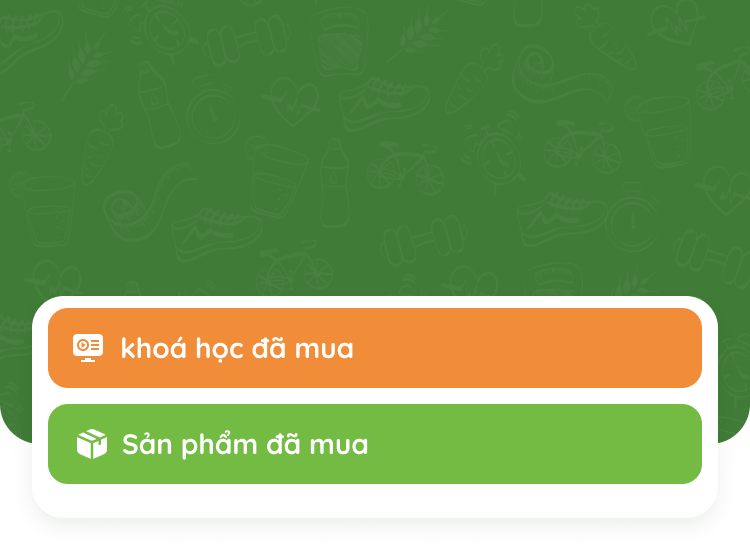
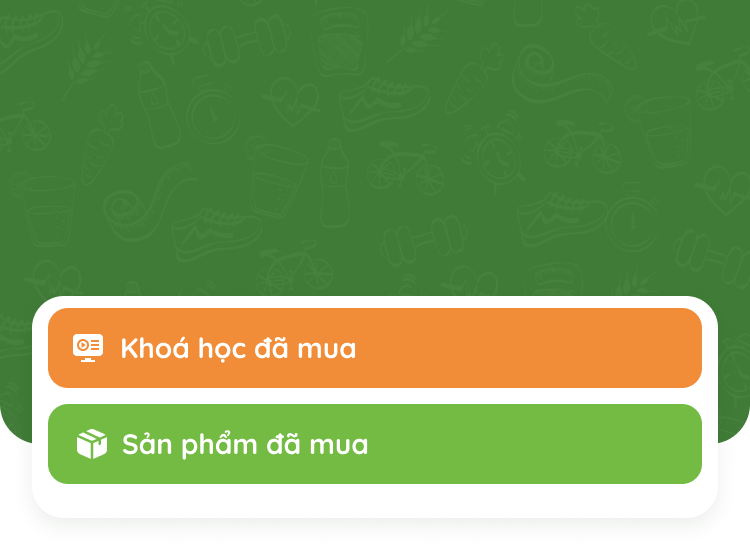
feat: add external home screen, product listing page, and required visual assets

Changed region(s): [[0.1533, 0.6182, 0.4907, 0.68]]

diff --git a/lib/screens/listSanPham/list_sp.dart b/lib/screens/listSanPham/list_sp.dart
@@ -1,4 +1,4 @@
-import 'package:heathy_teacher/utils/apple_sanitizer.dart';
+import 'package:heathy_teacher/utils/apple_sanitizer.dart';
 import 'dart:math';
 import 'package:flutter/material.dart';
 import 'package:flutter_screenutil/flutter_screenutil.dart';
@@ -125,18 +125,13 @@ class _ListSpScreenState extends State<ListSpScreen> {
                             ),
                           ],
                         ),
-                        GridView.builder(
+                        ListView.separated(
                           shrinkWrap: true,
-                          physics: NeverScrollableScrollPhysics(),
+                          physics: const NeverScrollableScrollPhysics(),
                           padding: const EdgeInsets.all(12),
                           itemCount: courses.length,
-                          gridDelegate:
-                              const SliverGridDelegateWithFixedCrossAxisCount(
-                                crossAxisCount: 2,
-                                crossAxisSpacing: 12,
-                                mainAxisSpacing: 12,
-                                childAspectRatio: 0.6,
-                              ),
+                          separatorBuilder: (context, index) =>
+                              const SizedBox(height: 12),
                           itemBuilder: (context, index) {
                             final item = courses[index];
 
@@ -172,48 +167,55 @@ class _ListSpScreenState extends State<ListSpScreen> {
                                         top: Radius.circular(16),
                                         bottom: Radius.circular(16),
                                       ),
-                                      child: CachedNetworkImage(memCacheWidth: 800, 
-                                        imageUrl: item.img ?? '',
-                                        height: 160.h,
-                                        width: double.infinity,
-                                        fit: BoxFit.cover,
-                                        errorWidget: (context, url, error) {
-                                          return Container(
-                                            width: 50.dg,
-                                            height: 50.dg,
-                                            color: Colors.grey[200],
-                                            child: Icon(
-                                              Icons.error_outline,
-                                              size: 30.dg,
-                                              color: Colors.grey,
-                                            ),
-                                          );
-                                        },
-                                        // (Tuỳ chọn) Hiển thị vòng xoay loading trong lúc đang tải ảnh
-                                        placeholder: (context, url) {
-                                          return Container(
-                                            width: 80.w,
-                                            height: 80.h,
-                                            color: Colors.grey[100],
-                                            child: const Center(
-                                              child:
-                                                  CircularProgressIndicator(),
-                                            ),
-                                          );
-                                        },
+                                      child: AspectRatio(
+                                        aspectRatio: 1,
+                                        child: CachedNetworkImage(
+                                          memCacheWidth: 800,
+                                          imageUrl: item.img ?? '',
+                                          width: double.infinity,
+                                          fit: BoxFit.cover,
+                                          errorWidget: (context, url, error) {
+                                            return Container(
+                                              width: 50.dg,
+                                              height: 50.dg,
+                                              color: Colors.grey[200],
+                                              child: Icon(
+                                                Icons.error_outline,
+                                                size: 30.dg,
+                                                color: Colors.grey,
+                                              ),
+                                            );
+                                          },
+                                          // (Tuỳ chọn) Hiển thị vòng xoay loading trong lúc đang tải ảnh
+                                          placeholder: (context, url) {
+                                            return Container(
+                                              width: 80.w,
+                                              height: 80.h,
+                                              color: Colors.grey[100],
+                                              child: const Center(
+                                                child:
+                                                    CircularProgressIndicator(),
+                                              ),
+                                            );
+                                          },
+                                        ),
                                       ),
                                     ),
 
-                                    Text(
-                                      item.categoryName ?? '',
-                                      maxLines: 2,
-                                      overflow: TextOverflow.ellipsis,
-                                      style: defaultText16B.copyWith(
-                                        color: mainDarkGreen,
+                                    Padding(
+                                      padding: const EdgeInsets.symmetric(
+                                        vertical: 8.0,
+                                        horizontal: 4.0,
+                                      ),
+                                      child: Text(
+                                        item.categoryName ?? '',
+                                        style: defaultText16B.copyWith(
+                                          color: mainDarkGreen,
+                                        ),
                                       ),
                                     ),
 
-                                    const Spacer(),
+                                    const SizedBox(height: 8),
 
                                     /// BUTTON
                                     Padding(
@@ -323,7 +325,8 @@ class _ListSpScreenState extends State<ListSpScreen> {
                               /// IMAGE (giữ kích thước mong muốn)
                               SizedBox(
                                 height: 140.h, // 👈 bạn control size ảnh ở đây
-                                child: CachedNetworkImage(memCacheWidth: 800, 
+                                child: CachedNetworkImage(
+                                  memCacheWidth: 800,
                                   imageUrl:
                                       'https://cogiaohealthy.vn/wp-content/uploads/2025/07/cogiao.png',
                                   fit: BoxFit.contain,

diff --git a/lib/screens/splash/external_page.dart b/lib/screens/splash/external_page.dart
@@ -1,4 +1,4 @@
-import 'package:heathy_teacher/repo/course_repo.dart';
+import 'package:heathy_teacher/repo/course_repo.dart';
 import 'package:heathy_teacher/screens/bottomNavBar/bottom_bar_screen.dart';
 import 'package:heathy_teacher/screens/coursePage/course_screen.dart';
 import 'package:heathy_teacher/utils/widget/custom_home_widget.dart';
@@ -323,7 +323,8 @@ class _CoGiaoHealthyScreenState extends State<CoGiaoHealthyScreen> {
                             /// IMAGE (giữ kích thước mong muốn)
                             SizedBox(
                               height: 150.h, // 👈 bạn control size ảnh ở đây
-                              child: CachedNetworkImage(memCacheWidth: 800, 
+                              child: CachedNetworkImage(
+                                memCacheWidth: 800,
                                 imageUrl:
                                     'https://cogiaohealthy.vn/wp-content/uploads/2025/07/cogiao.png',
                                 fit: BoxFit.contain,
@@ -637,6 +638,7 @@ class ServiceGrid extends StatelessWidget {
           "Các dịch vụ nổi bật tại Cô giáo healthy",
           style: defaultText14M.copyWith(color: mainDarkGreen),
         ),
+        SizedBox(height: 8.h),
         //const StatisticsBannerWidget(),
         Padding(
           padding: EdgeInsets.symmetric(
@@ -721,15 +723,15 @@ class BottomCustom extends StatelessWidget {
         'type': 'url',
       },
       {
+        'title': 'Trang chủ',
+        'iconPath': 'assets/icons/icon_home.svg',
+        'type': 'external_home',
+      },
+      {
         'title': 'Gọi hotline',
         'iconPath': 'assets/images/call.png',
         'url': '0966912016',
         'type': 'phone',
-      },
-      {
-        'title': 'Hỗ trợ ngay',
-        'iconPath': 'assets/images/suport.png',
-        'type': 'login',
       },
     ];
 
@@ -763,6 +765,17 @@ class BottomCustom extends StatelessWidget {
                 await _launchUrl(context, item['url']);
               } else if (item['type'] == 'phone') {
                 await _launchUrl(context, item['url'], isPhone: true);
+              } else if (item['type'] == 'external_home') {
+                Navigator.pushAndRemoveUntil(
+                  context,
+                  MaterialPageRoute(
+                    builder: (context) => const CoGiaoHealthyScreen(
+                      type: 'home',
+                      place: 'Hà Nội',
+                    ),
+                  ),
+                  (Route<dynamic> route) => false,
+                );
               } else if (item['type'] == 'login') {
                 final prefs = await SharedPreferences.getInstance();
                 final token = prefs.getString('token');
@@ -1117,7 +1130,8 @@ class _OfflineClassCard extends StatelessWidget {
         child: Column(
           mainAxisAlignment: MainAxisAlignment.spaceBetween,
           children: [
-            CachedNetworkImage(memCacheWidth: 800, 
+            CachedNetworkImage(
+              memCacheWidth: 800,
               imageUrl: model.img ?? '',
               width: 184.w,
               fit: BoxFit.fitWidth,
@@ -1235,7 +1249,8 @@ class _OnlineClassCard extends StatelessWidget {
                   borderRadius: BorderRadius.circular(12.r),
                   child: AspectRatio(
                     aspectRatio: 483 / 397.76,
-                    child: CachedNetworkImage(memCacheWidth: 800, 
+                    child: CachedNetworkImage(
+                      memCacheWidth: 800,
                       imageUrl:
                           model.img ??
                           'https://community.softr.io/uploads/db9110/original/2X/7/74e6e7e382d0ff5d7773ca9a87e6f6f8817a68a6.jpeg',

diff --git a/lib/screens/splash/sale_screen.dart b/lib/screens/splash/sale_screen.dart
@@ -1,4 +1,4 @@
-import 'package:flutter/material.dart';
+import 'package:flutter/material.dart';
 import 'package:flutter_screenutil/flutter_screenutil.dart';
 import 'package:heathy_teacher/utils/constants/color.dart';
 import 'package:heathy_teacher/utils/constants/styles.dart';
@@ -106,7 +106,9 @@ class _SaleScreenState extends State<SaleScreen> {
         saleProducts = products.where((element) {
           final priceOld = element.priceOld ?? '0';
           final price = element.price ?? '0';
-          final isOutOfStock = element.inventoryQuantity == '0' && element.allowShortSelling == '0';
+          final isOutOfStock =
+              element.inventoryQuantity == '0' &&
+              element.allowShortSelling == '0';
           return priceOld != '0' && priceOld != price && !isOutOfStock;
         }).toList();
 
@@ -305,13 +307,12 @@ class _SaleScreenState extends State<SaleScreen> {
                     ],
                     SizedBox(height: 20.h),
                     CustomFooterInfo(),
-
-                    BottomCustom(),
                   ],
                 ),
               ),
             ),
           ),
+          BottomCustom(),
         ],
       ),
     );
@@ -350,7 +351,8 @@ class _SaleScreenState extends State<SaleScreen> {
               borderRadius: BorderRadius.circular(8.r),
               child: AspectRatio(
                 aspectRatio: 483 / 397.76,
-                child: CachedNetworkImage(memCacheWidth: 800, 
+                child: CachedNetworkImage(
+                  memCacheWidth: 800,
                   imageUrl: (model.img != null && model.img!.startsWith('http'))
                       ? model.img!
                       : (model.img != null && model.img!.isNotEmpty
@@ -547,7 +549,8 @@ class _SaleScreenState extends State<SaleScreen> {
                 top: Radius.circular(16),
                 bottom: Radius.circular(16),
               ),
-              child: CachedNetworkImage(memCacheWidth: 800, 
+              child: CachedNetworkImage(
+                memCacheWidth: 800,
                 imageUrl: (item.img != null && item.img!.startsWith('http'))
                     ? item.img!
                     : (item.img != null && item.img!.isNotEmpty
